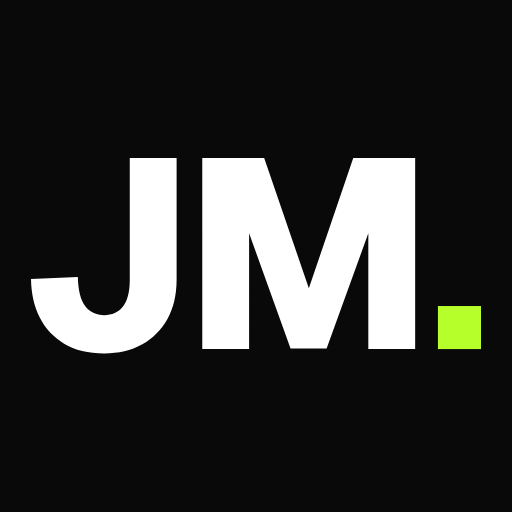
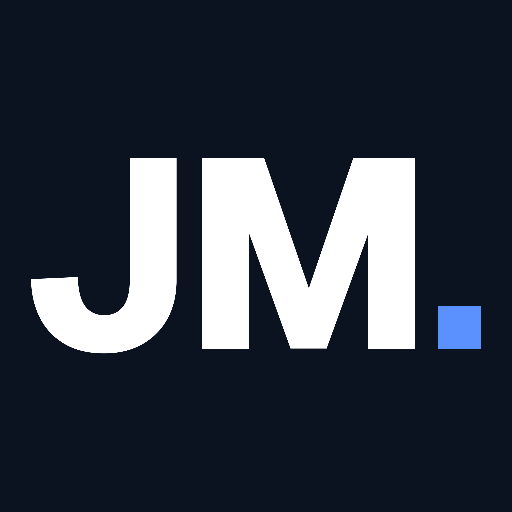
feat: unifica identidad visual y tipografia del sitio

Changed region(s): [[0.8438, 0.5938, 0.9375, 0.6875]]

diff --git a/src/styles/global.css b/src/styles/global.css
@@ -2,15 +2,14 @@
 @plugin '@tailwindcss/typography';
 
 @theme {
-  --color-void: #090909;
-  --color-graphite: #131313;
-  --color-steel: #1e1e1e;
-  --color-bone: #eaeaea;
-  --color-smoke: #929292;
-  --color-acid: #b6ff28;
-  --font-sans: 'Geist', ui-sans-serif, system-ui, sans-serif;
-  --font-mono: 'JetBrains Mono', ui-monospace, monospace;
-  --font-display: 'Space Grotesk', 'Geist', ui-sans-serif, system-ui, sans-serif;
+  --color-void: #0b1220;
+  --color-graphite: #151f35;
+  --color-steel: #2c3d5c;
+  --color-bone: #eef1f8;
+  --color-smoke: #a6b0c2;
+  --color-electric: #5b91ff;
+  --color-magenta: #d96fab;
+  --font-sans: 'Plus Jakarta Sans', ui-sans-serif, system-ui, sans-serif;
 }
 
 html {

diff --git a/src/data/links.ts b/src/data/links.ts
@@ -10,6 +10,7 @@ export type Link = {
   action: string;
   icon: LinkIcon;
   newTab?: boolean;
+  primary?: boolean;
 };
 
 export const profile = {
@@ -25,6 +26,7 @@ export const links: Link[] = [
     href: 'https://calendly.com/juanmaldonadopolo/30min',
     action: 'Reservar',
     icon: 'lucide:calendar',
+    primary: true,
   },
   {
     title: 'Conectar con LinkedIn',

diff --git a/README.md b/README.md
@@ -102,9 +102,7 @@ Los tokens están definidos en `src/styles/global.css` mediante `@theme`:
 
 Tipografías:
 
-- Geist: texto general y referencia principal de marca.
-- Space Grotesk: títulos.
-- JetBrains Mono: etiquetas, metadatos y elementos técnicos.
+- Plus Jakarta Sans: familia tipográfica única para cuerpo, títulos, etiquetas y metadatos.
 
 No añadir CSS personalizado si una utilidad o token de Tailwind resuelve el caso. Las clases deben usar sintaxis canónica de Tailwind 4 siempre que exista.
 
